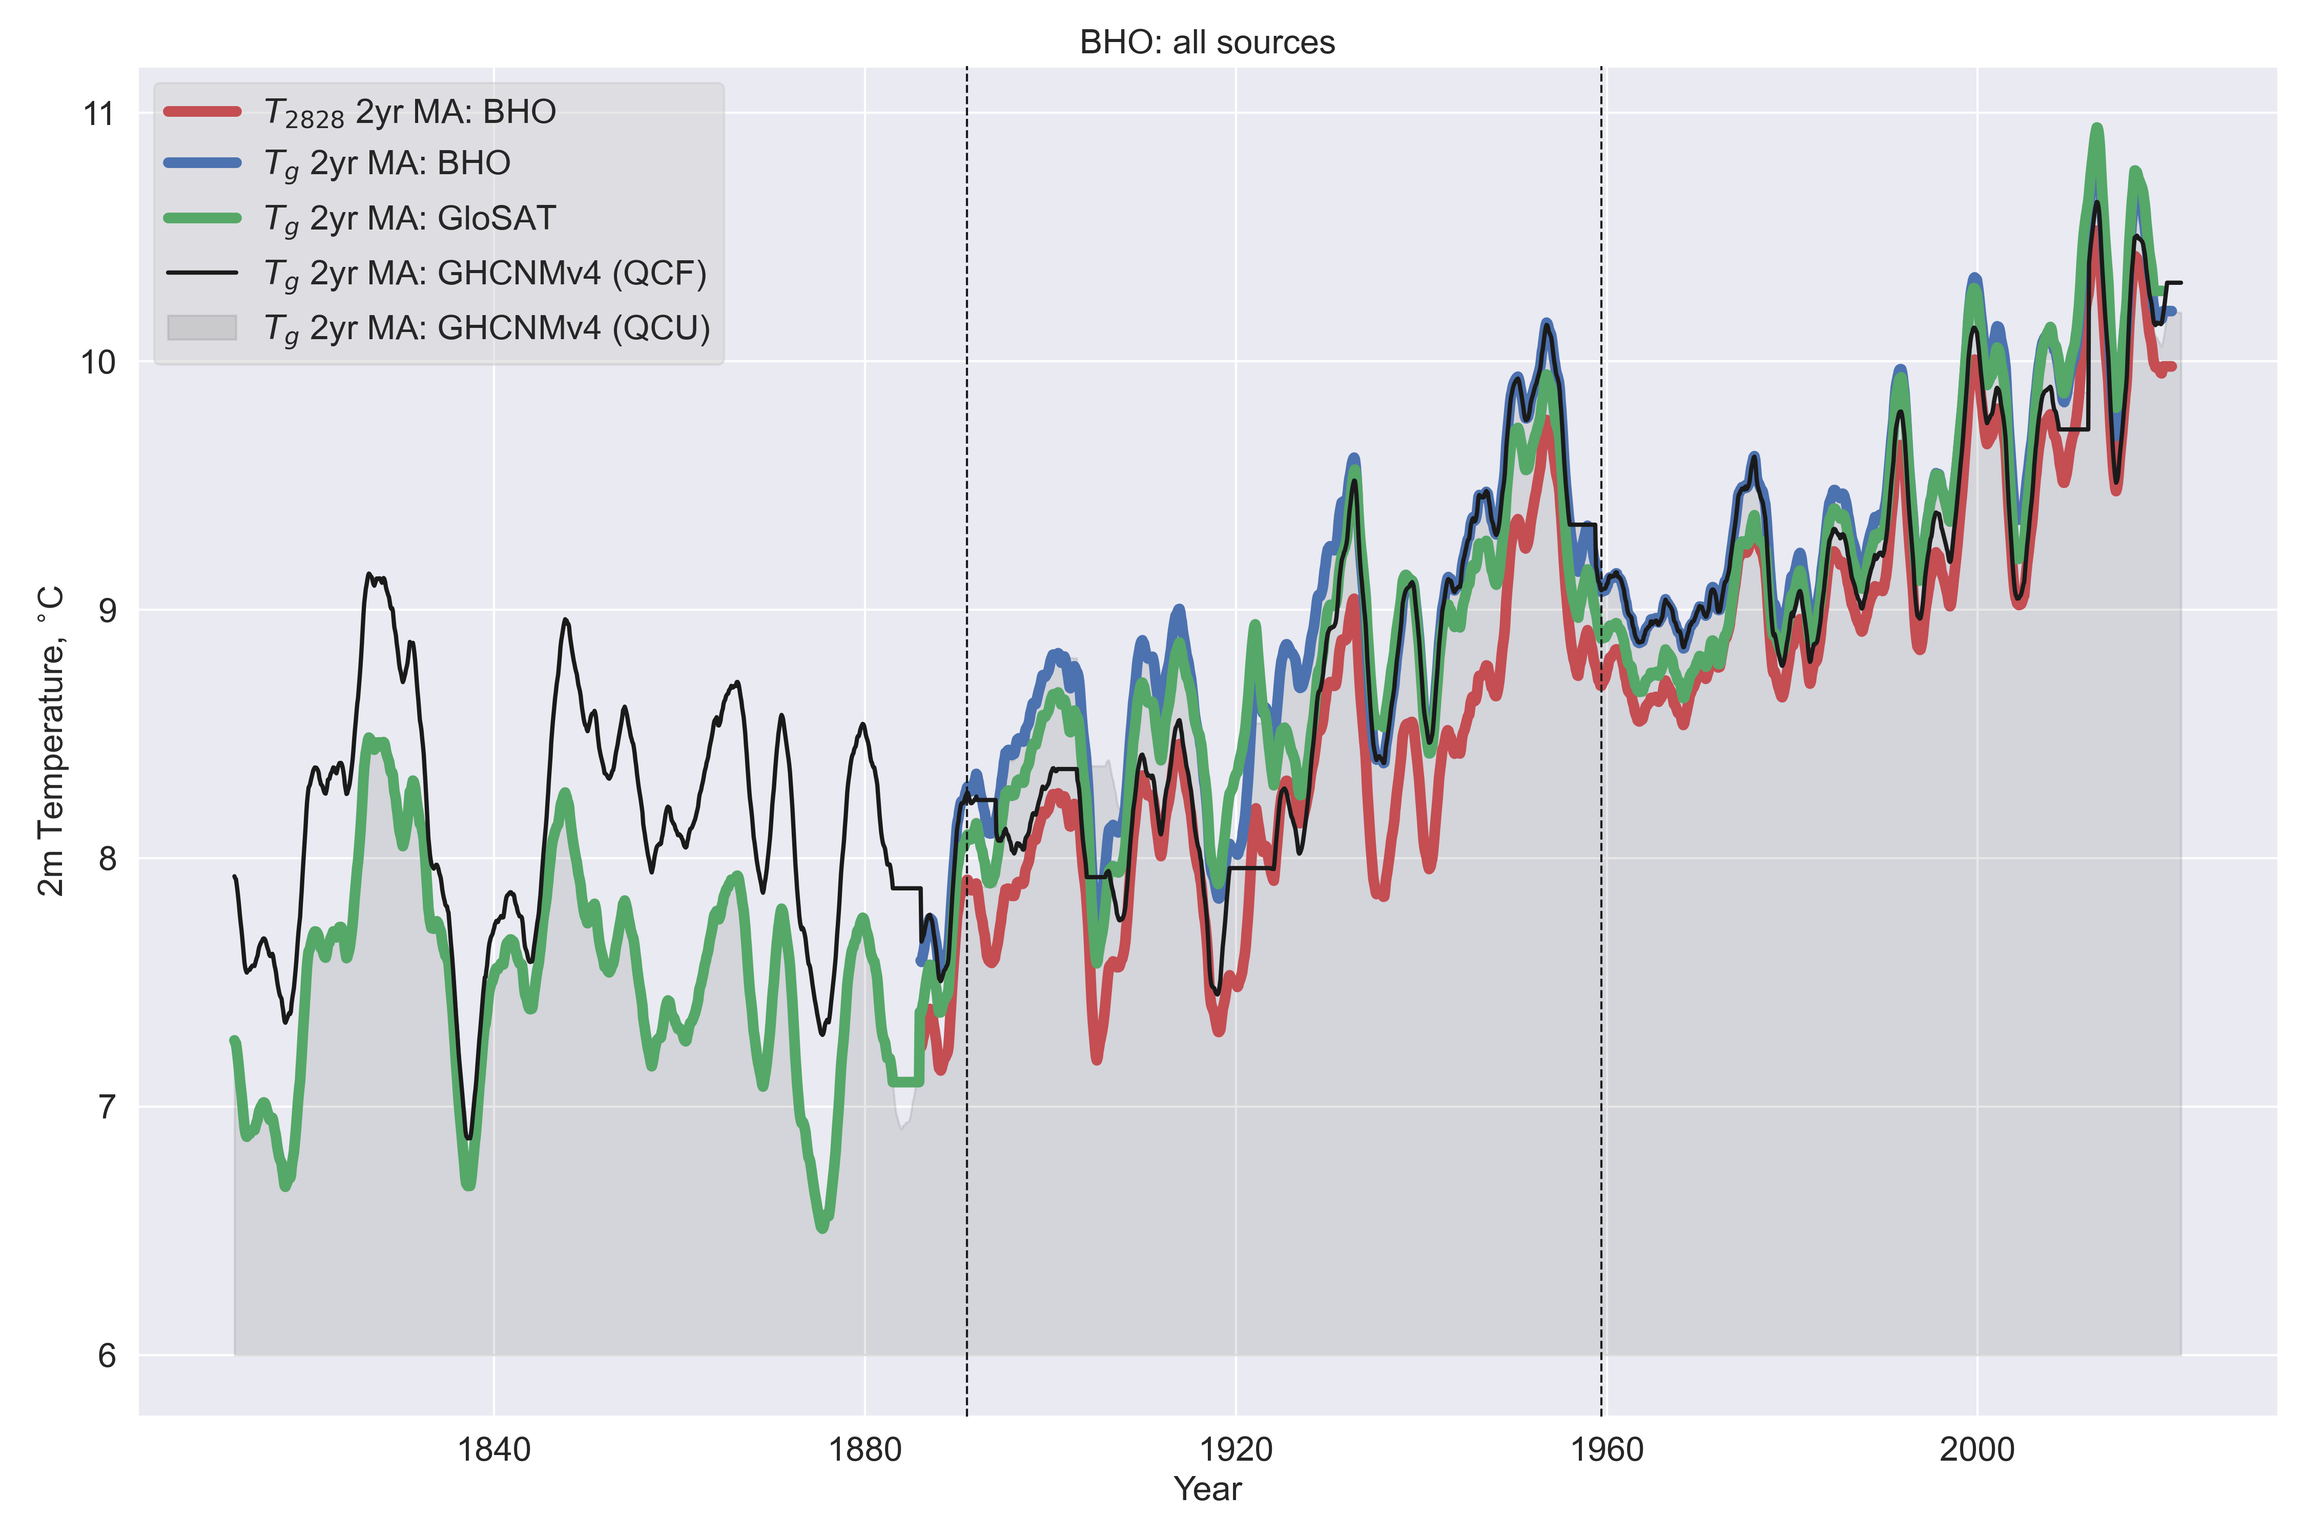
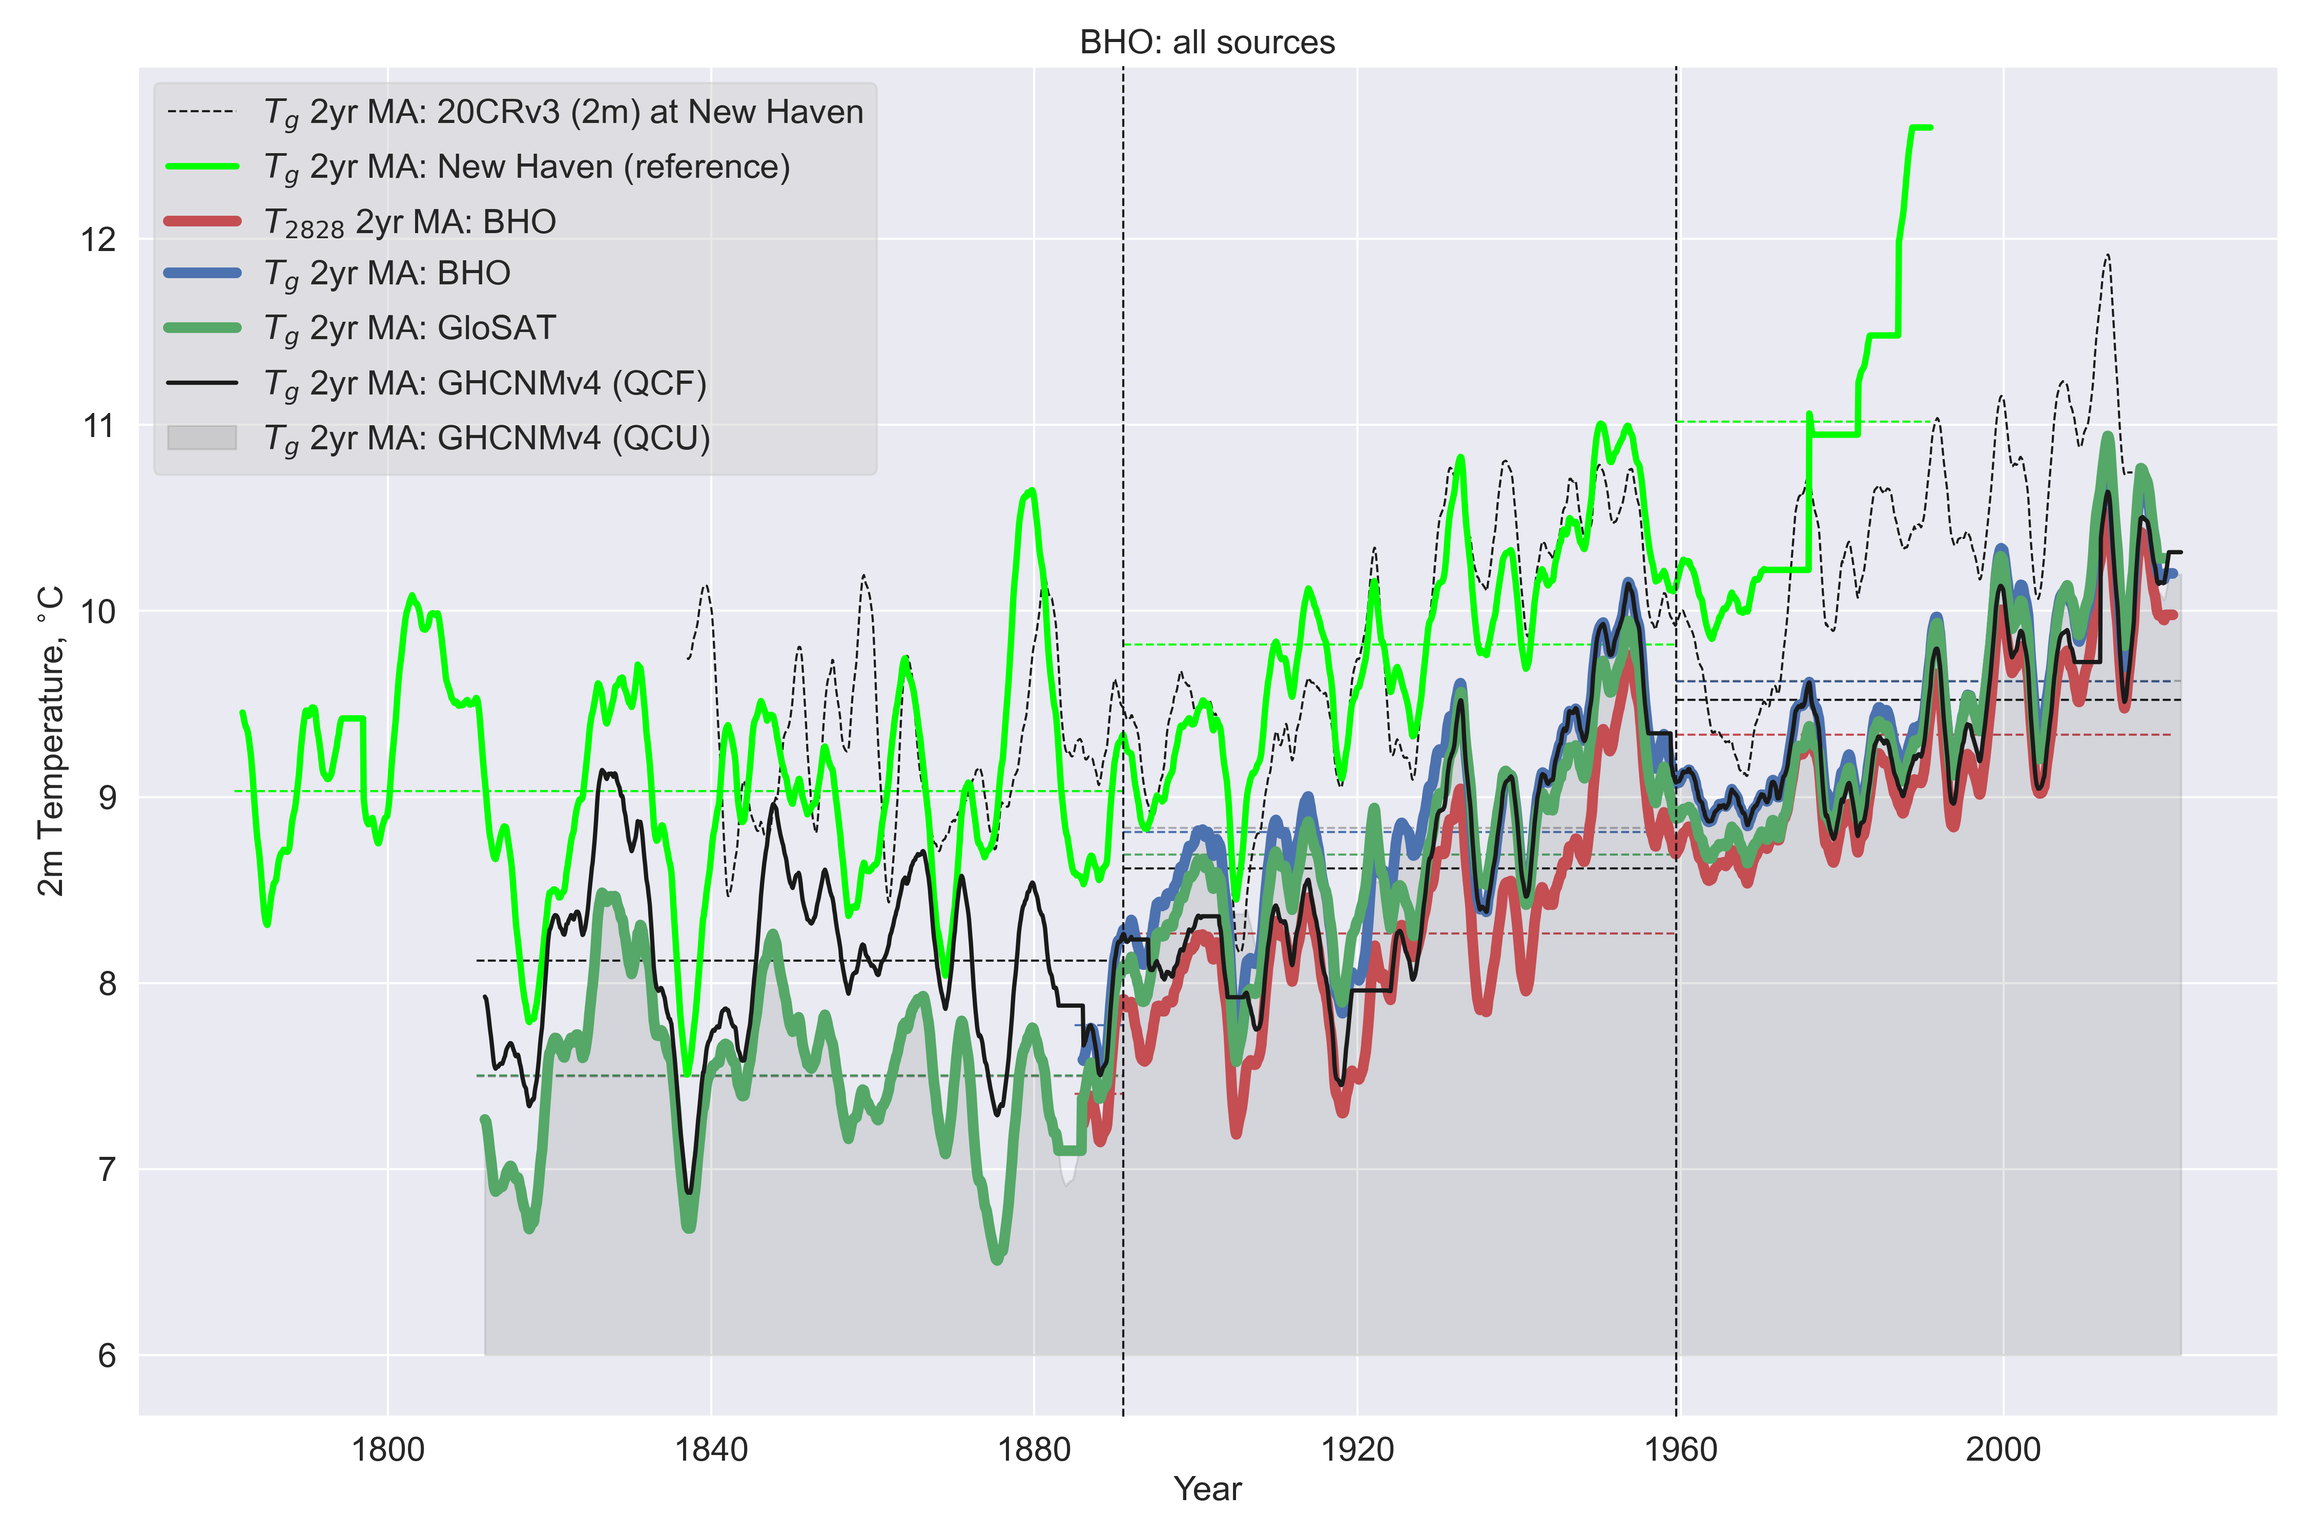
Added 20CRv3 monthly 2m and 1000hPa gridcell extracts at New Haven and BHO

diff --git a/load-new-england-datasets.py b/load-new-england-datasets.py
@@ -103,6 +103,7 @@ load_bho_observations = True
 load_neighbouring_stations = True
 load_glosat = True
 load_ghcnm = True
+load_20crv3 = True
 color_palette = 'viridis_r'
 
 #------------------------------------------------------------------------------
@@ -142,6 +143,76 @@ def is_leap_and_29Feb(s):
 # LOAD: Datasets
 #==============================================================================
 
+if load_20crv3 == True:
+
+    # LOAD: 20CRv3 for BHO at 2m and at 1000 hPa
+        
+    df_20CRv3_bho = pd.read_csv('OUT/df_20CRv3_bho.csv', index_col=0)
+    df_20CRv3_bho.index = pd.to_datetime(df_20CRv3_bho.index)
+    df_20CRv3_new_haven = pd.read_csv('OUT/df_20CRv3_new_haven.csv', index_col=0)
+    df_20CRv3_new_haven.index = pd.to_datetime(df_20CRv3_new_haven.index)
+
+else:
+    
+    #-----------------------------------------------------------------------------
+    # LOAD: 20CRv3 (monthly) temperature at 2m and on pressure levels + spread = mean of SDs (1836-2015)
+    #-----------------------------------------------------------------------------
+
+    # Dataset: https://psl.noaa.gov/data/gridded/data.20thC_ReanV3.pressure.html#caveat
+
+    ds_20CR_2m = xr.open_dataset('DATA/air.2m.mon.mean.nc', decode_cf=True)
+    ds_20CR_2m_spread = xr.open_dataset('DATA/air.2m.mon.mean.spread.nc', decode_cf=True)
+    ds_20CR_hPa = xr.open_dataset('DATA/air.mon.mean.nc', decode_cf=True)
+    ds_20CR_hPa_spread = xr.open_dataset('DATA/air.mon.mean.spread.nc', decode_cf=True)
+#    ds_20CR_2m_tmin = xr.open_dataset('DATA/tmin.2m.mon.mean.nc', decode_cf=True)
+#    ds_20CR_2m_tmax = xr.open_dataset('DATA/tmax.2m.mon.mean.nc', decode_cf=True)
+
+    bho_idx_lat = 90+42
+    bho_idx_lon = 360-71
+    new_haven_idx_lat = 90+41
+    new_haven_idx_lon = 360-73
+
+    # EXTRACT: reanalysis at 2m and at 1000 hPa level and convert to degC
+
+    dr_20CR_2m_bho = ds_20CR_2m.air[:,bho_idx_lat,bho_idx_lon]-273.15
+    dr_20CR_2m_bho_spread = ds_20CR_2m_spread.air[:,bho_idx_lat,bho_idx_lon]
+    dr_20CR_hPa_bho = ds_20CR_hPa.air[:,0,bho_idx_lat,bho_idx_lon]-273.15
+    dr_20CR_hPa_bho_spread = ds_20CR_hPa_spread.air[:,0,bho_idx_lat,bho_idx_lon]
+
+    dr_20CR_2m_new_haven = ds_20CR_2m.air[:,new_haven_idx_lat,new_haven_idx_lon]-273.15
+    dr_20CR_2m_new_haven_spread = ds_20CR_2m_spread.air[:,new_haven_idx_lat,new_haven_idx_lon]
+    dr_20CR_hPa_new_haven = ds_20CR_hPa.air[:,0,new_haven_idx_lat,new_haven_idx_lon]-273.15
+    dr_20CR_hPa_new_haven_spread = ds_20CR_hPa_spread.air[:,0,new_haven_idx_lat,new_haven_idx_lon]
+
+    # CLEAR: reanalysis dataframes that are no longer needed
+
+    ds_20CR_2m = []
+    ds_20CR_2m_spread = []
+    ds_20CR_hPa = []
+    ds_20CR_hPa_spread = []
+    
+    # CONSTRUCT: dataframes
+
+    t = dr_20CR_2m_bho.time.values
+    df_20CRv3_bho = pd.DataFrame({
+        'T(1000hPa)':dr_20CR_hPa_bho.values, 
+        'T(2m)':dr_20CR_2m_bho.values, 
+        'T(1000hPa) spread':dr_20CR_hPa_bho_spread.values, 
+        'T(2m) spread':dr_20CR_2m_bho_spread.values}, index=t)      
+    df_20CRv3_bho.index.name = 'datetime'
+    df_20CRv3_bho.to_csv('df_20CRv3_bho.csv')
+
+    t = dr_20CR_2m_new_haven.time.values
+    df_20CRv3_new_haven = pd.DataFrame({
+        'T(1000hPa)':dr_20CR_hPa_new_haven.values, 
+        'T(2m)':dr_20CR_2m_new_haven.values, 
+        'T(1000hPa) spread':dr_20CR_hPa_new_haven_spread.values, 
+        'T(2m) spread':dr_20CR_2m_new_haven_spread.values}, index=t)      
+    df_20CRv3_new_haven.index.name = 'datetime'
+    df_20CRv3_new_haven.to_csv('df_20CRv3_new_haven.csv')
+
+#==============================================================================
+                      
 if load_ghcnm == True:
     
     # LOAD: GHCNM-v4 (QCU and QCF)
@@ -1100,6 +1171,14 @@ fig, axs = plt.subplots(2,1, figsize=(15,10))
 sns.lineplot(x=df_bho_2828.index, y=df_bho_2828['T2828'], ax=axs[0], marker='o', color='r', alpha=1.0, label='$T_{2828}$')
 sns.lineplot(x=df_bho_2828.index, y=df_bho_tg['Tg'], ax=axs[0], marker='.', color='b', alpha=1.0, label='$T_{g}$')
 sns.lineplot(x=df_bho_2828.index, y=df_bho_2828['T2828'] - df_bho_tg['Tg'], ax=axs[1], color='teal')
+
+mask_pre_1891 = df_bho_2828.index < pd.Timestamp('1891-01-01')
+mask_1891_1959 = (df_bho_2828.index >= pd.Timestamp('1891-01-01')) & (df_bho_2828.index < pd.Timestamp('1959-06-01'))
+mask_post_1959 = df_bho_2828.index >= pd.Timestamp('1959-06-01')
+sns.lineplot(x=df_bho_2828.index[mask_pre_1891], y=mask_pre_1891.sum()*[ np.nanmean((df_bho_2828['T2828']-df_bho_tg['Tg']).values[mask_pre_1891]) ], ls='--', lw=1, color='k')            
+sns.lineplot(x=df_bho_2828.index[mask_1891_1959], y=mask_1891_1959.sum()*[ np.nanmean((df_bho_2828['T2828']-df_bho_tg['Tg']).values[mask_1891_1959]) ], ls='--', lw=1, color='k')            
+sns.lineplot(x=df_bho_2828.index[mask_post_1959], y=mask_post_1959.sum()*[ np.nanmean((df_bho_2828['T2828']-df_bho_tg['Tg']).values[mask_post_1959]) ], ls='--', lw=1, color='k')            
+
 plt.axvline(x=pd.Timestamp('1891-01-01'), ls='--', lw=1, color='k')
 plt.axvline(x=pd.Timestamp('1959-06-01'), ls='--', lw=1, color='k')
 axs[0].legend(loc='lower right', ncol=1, markerscale=1, facecolor='lightgrey', framealpha=0.5, fontsize=fontsize)    
@@ -1150,6 +1229,14 @@ fig, axs = plt.subplots(2,1, figsize=(15,10))
 sns.lineplot(x=df_bho_tg.index, y='Tgm', data=df_bho_monthly, ax=axs[0], marker='o', color='r', alpha=1.0, label='$T_{g}$ (from daily)')
 sns.lineplot(x=df_bho_tg.index, y='Tg', data=df_bho_monthly, ax=axs[0], marker='.', color='b', alpha=1.0, label='$T_{g}$ monthly')
 sns.lineplot(x=df_bho_tg.index, y=df_bho_monthly['Tgm']-df_bho_monthly['Tg'], data=df_bho_monthly, ax=axs[1], color='teal')
+
+mask_pre_1891 = df_bho_tg.index < pd.Timestamp('1891-01-01')
+mask_1891_1959 = (df_bho_tg.index >= pd.Timestamp('1891-01-01')) & (df_bho_tg.index < pd.Timestamp('1959-06-01'))
+mask_post_1959 = df_bho_tg.index >= pd.Timestamp('1959-06-01')
+sns.lineplot(x=df_bho_tg.index[mask_pre_1891], y=mask_pre_1891.sum()*[ np.nanmean((df_bho_monthly['Tgm']-df_bho_monthly['Tg']).values[mask_pre_1891]) ], ls='--', lw=1, color='k')            
+sns.lineplot(x=df_bho_tg.index[mask_1891_1959], y=mask_1891_1959.sum()*[ np.nanmean((df_bho_monthly['Tgm']-df_bho_monthly['Tg']).values[mask_1891_1959]) ], ls='--', lw=1, color='k')            
+sns.lineplot(x=df_bho_tg.index[mask_post_1959], y=mask_post_1959.sum()*[ np.nanmean((df_bho_monthly['Tgm']-df_bho_monthly['Tg']).values[mask_post_1959]) ], ls='--', lw=1, color='k')            
+
 axs[0].legend(loc='lower right', ncol=1, markerscale=1, facecolor='lightgrey', framealpha=0.5, fontsize=fontsize)    
 plt.axvline(x=pd.Timestamp('1891-01-01'), ls='--', lw=1, color='k')
 plt.axvline(x=pd.Timestamp('1959-06-01'), ls='--', lw=1, color='k')
@@ -1512,15 +1599,66 @@ print('plotting BHO timeseries (all sources) ... ')
 sequential_colors = sns.color_palette(color_palette, 5)
 sns.set_palette(sequential_colors)
 
-figstr = 'bho-timeseries-all-sources-nominmax.png'
+figstr = 'bho-timeseries-all-sources.png'
 titlestr = 'BHO: all sources'
 
 fig, ax = plt.subplots(figsize=(15,10))
+
+# PLOT: 2yr MA smoothed reanalysis
+
+sns.lineplot(x=df_20CRv3_new_haven.index, y=(pd.Series(df_20CRv3_new_haven['T(2m)']).rolling(24,center=True).mean()).ewm(span=24, adjust=False).mean(), ls='--', lw=1, color='k', alpha=1, zorder=5, legend=True, label=r'$T_{g}$ 2yr MA: 20CRv3 (2m) at New Haven')
+
+# PLOT: 2yr MA smoothed timeseries
+
+sns.lineplot(x=df_new_haven.index, y=(pd.Series(df_new_haven['new_haven']).rolling(24,center=True).mean()).ewm(span=24, adjust=False).mean(), ls='-', lw=3, color='lime', alpha=1, zorder=5, legend=True, label=r'$T_{g}$ 2yr MA: New Haven (reference)')
 sns.lineplot(x=df_bho_2828.index, y=(pd.Series(df_bho_2828['T2828']).rolling(24,center=True).mean()).ewm(span=24, adjust=False).mean(), ls='-', lw=5, color='r', alpha=1, zorder=5, legend=True, label=r'$T_{2828}$ 2yr MA: BHO')
 sns.lineplot(x=df_bho_2828.index, y=(pd.Series(df_bho_tg['Tg']).rolling(24,center=True).mean()).ewm(span=24, adjust=False).mean(), ls='-', lw=5, color='b', alpha=1, zorder=5, legend=True, label=r'$T_{g}$ 2yr MA: BHO')
 sns.lineplot(x=df_blue_hill.index, y=(pd.Series(df_blue_hill['blue_hill']).rolling(24,center=True).mean()).ewm(span=24, adjust=False).mean(), ls='-', lw=5, color='g', alpha=1, zorder=5, legend=True, label=r'$T_{g}$ 2yr MA: GloSAT')
 plt.plot(df_ghcnmv4_qcf.index, (pd.Series(df_ghcnmv4_qcf['df_ghcnmv4_qcf']).rolling(24,center=True).mean()).ewm(span=24, adjust=False).mean(), ls='-', lw=2, color='k', zorder=10, label=r'$T_{g}$ 2yr MA: GHCNMv4 (QCF)')
 plt.fill_between(df_ghcnmv4_qcu.index, 6, (pd.Series(df_ghcnmv4_qcu['df_ghcnmv4_qcu']).rolling(24,center=True).mean()).ewm(span=24, adjust=False).mean(), color='k', alpha=0.1, zorder=3, label=r'$T_{g}$ 2yr MA: GHCNMv4 (QCU)')
+
+# PLOT: segment means
+
+mask_pre_1891 = df_new_haven.index < pd.Timestamp('1891-01-01')
+mask_1891_1959 = (df_new_haven.index >= pd.Timestamp('1891-01-01')) & (df_new_haven.index < pd.Timestamp('1959-06-01'))
+mask_post_1959 = df_new_haven.index >= pd.Timestamp('1959-06-01')
+sns.lineplot(x=df_new_haven.index[mask_pre_1891], y=mask_pre_1891.sum()*[df_new_haven['new_haven'][mask_pre_1891].dropna().mean()], ls='--', lw=1, color='lime')            
+sns.lineplot(x=df_new_haven.index[mask_1891_1959], y=mask_1891_1959.sum()*[df_new_haven['new_haven'][mask_1891_1959].dropna().mean()], ls='--', lw=1, color='lime')            
+sns.lineplot(x=df_new_haven.index[mask_post_1959], y=mask_post_1959.sum()*[df_new_haven['new_haven'][mask_post_1959].dropna().mean()], ls='--', lw=1, color='lime')            
+
+mask_pre_1891 = df_bho_2828.index < pd.Timestamp('1891-01-01')
+mask_1891_1959 = (df_bho_2828.index >= pd.Timestamp('1891-01-01')) & (df_bho_2828.index < pd.Timestamp('1959-06-01'))
+mask_post_1959 = df_bho_2828.index >= pd.Timestamp('1959-06-01')
+sns.lineplot(x=df_bho_2828.index[mask_pre_1891], y=mask_pre_1891.sum()*[df_bho_2828['T2828'][mask_pre_1891].dropna().mean()], ls='--', lw=1, color='r')            
+sns.lineplot(x=df_bho_2828.index[mask_1891_1959], y=mask_1891_1959.sum()*[df_bho_2828['T2828'][mask_1891_1959].dropna().mean()], ls='--', lw=1, color='r')            
+sns.lineplot(x=df_bho_2828.index[mask_post_1959], y=mask_post_1959.sum()*[df_bho_2828['T2828'][mask_post_1959].dropna().mean()], ls='--', lw=1, color='r')            
+sns.lineplot(x=df_bho_2828.index[mask_pre_1891], y=mask_pre_1891.sum()*[df_bho_tg['Tg'][mask_pre_1891].dropna().mean()], ls='--', lw=1, color='b')            
+sns.lineplot(x=df_bho_2828.index[mask_1891_1959], y=mask_1891_1959.sum()*[df_bho_tg['Tg'][mask_1891_1959].dropna().mean()], ls='--', lw=1, color='b')            
+sns.lineplot(x=df_bho_2828.index[mask_post_1959], y=mask_post_1959.sum()*[df_bho_tg['Tg'][mask_post_1959].dropna().mean()], ls='--', lw=1, color='b')            
+
+mask_pre_1891 = df_blue_hill.index < pd.Timestamp('1891-01-01')
+mask_1891_1959 = (df_blue_hill.index >= pd.Timestamp('1891-01-01')) & (df_blue_hill.index < pd.Timestamp('1959-06-01'))
+mask_post_1959 = df_blue_hill.index >= pd.Timestamp('1959-06-01')
+sns.lineplot(x=df_blue_hill.index[mask_pre_1891], y=mask_pre_1891.sum()*[df_blue_hill['blue_hill'][mask_pre_1891].dropna().mean()], ls='--', lw=1, color='g')            
+sns.lineplot(x=df_blue_hill.index[mask_1891_1959], y=mask_1891_1959.sum()*[df_blue_hill['blue_hill'][mask_1891_1959].dropna().mean()], ls='--', lw=1, color='g')            
+sns.lineplot(x=df_blue_hill.index[mask_post_1959], y=mask_post_1959.sum()*[df_blue_hill['blue_hill'][mask_post_1959].dropna().mean()], ls='--', lw=1, color='g')            
+
+mask_pre_1891 = df_ghcnmv4_qcf.index < pd.Timestamp('1891-01-01')
+mask_1891_1959 = (df_ghcnmv4_qcf.index >= pd.Timestamp('1891-01-01')) & (df_ghcnmv4_qcf.index < pd.Timestamp('1959-06-01'))
+mask_post_1959 = df_ghcnmv4_qcf.index >= pd.Timestamp('1959-06-01')
+sns.lineplot(x=df_ghcnmv4_qcf.index[mask_pre_1891], y=mask_pre_1891.sum()*[df_ghcnmv4_qcf['df_ghcnmv4_qcf'][mask_pre_1891].dropna().mean()], ls='--', lw=1, color='k')            
+sns.lineplot(x=df_ghcnmv4_qcf.index[mask_1891_1959], y=mask_1891_1959.sum()*[df_ghcnmv4_qcf['df_ghcnmv4_qcf'][mask_1891_1959].dropna().mean()], ls='--', lw=1, color='k')            
+sns.lineplot(x=df_ghcnmv4_qcf.index[mask_post_1959], y=mask_post_1959.sum()*[df_ghcnmv4_qcf['df_ghcnmv4_qcf'][mask_post_1959].dropna().mean()], ls='--', lw=1, color='k')            
+
+mask_pre_1891 = df_ghcnmv4_qcu.index < pd.Timestamp('1891-01-01')
+mask_1891_1959 = (df_ghcnmv4_qcu.index >= pd.Timestamp('1891-01-01')) & (df_ghcnmv4_qcu.index < pd.Timestamp('1959-06-01'))
+mask_post_1959 = df_ghcnmv4_qcu.index >= pd.Timestamp('1959-06-01')
+sns.lineplot(x=df_ghcnmv4_qcu.index[mask_pre_1891], y=mask_pre_1891.sum()*[df_ghcnmv4_qcu['df_ghcnmv4_qcu'][mask_pre_1891].dropna().mean()], ls='--', lw=1, color='k', alpha=0.3)            
+sns.lineplot(x=df_ghcnmv4_qcu.index[mask_1891_1959], y=mask_1891_1959.sum()*[df_ghcnmv4_qcu['df_ghcnmv4_qcu'][mask_1891_1959].dropna().mean()], ls='--', lw=1, color='k', alpha=0.3)            
+sns.lineplot(x=df_ghcnmv4_qcu.index[mask_post_1959], y=mask_post_1959.sum()*[df_ghcnmv4_qcu['df_ghcnmv4_qcu'][mask_post_1959].dropna().mean()], ls='--', lw=1, color='k', alpha=0.3)            
+
+# PLOT: breakpoints
+
 plt.axvline(x=pd.Timestamp('1891-01-01'), ls='--', lw=1, color='k', zorder=20)
 plt.axvline(x=pd.Timestamp('1959-06-01'), ls='--', lw=1, color='k', zorder=20)
 plt.xlabel('Year', fontsize=fontsize)
